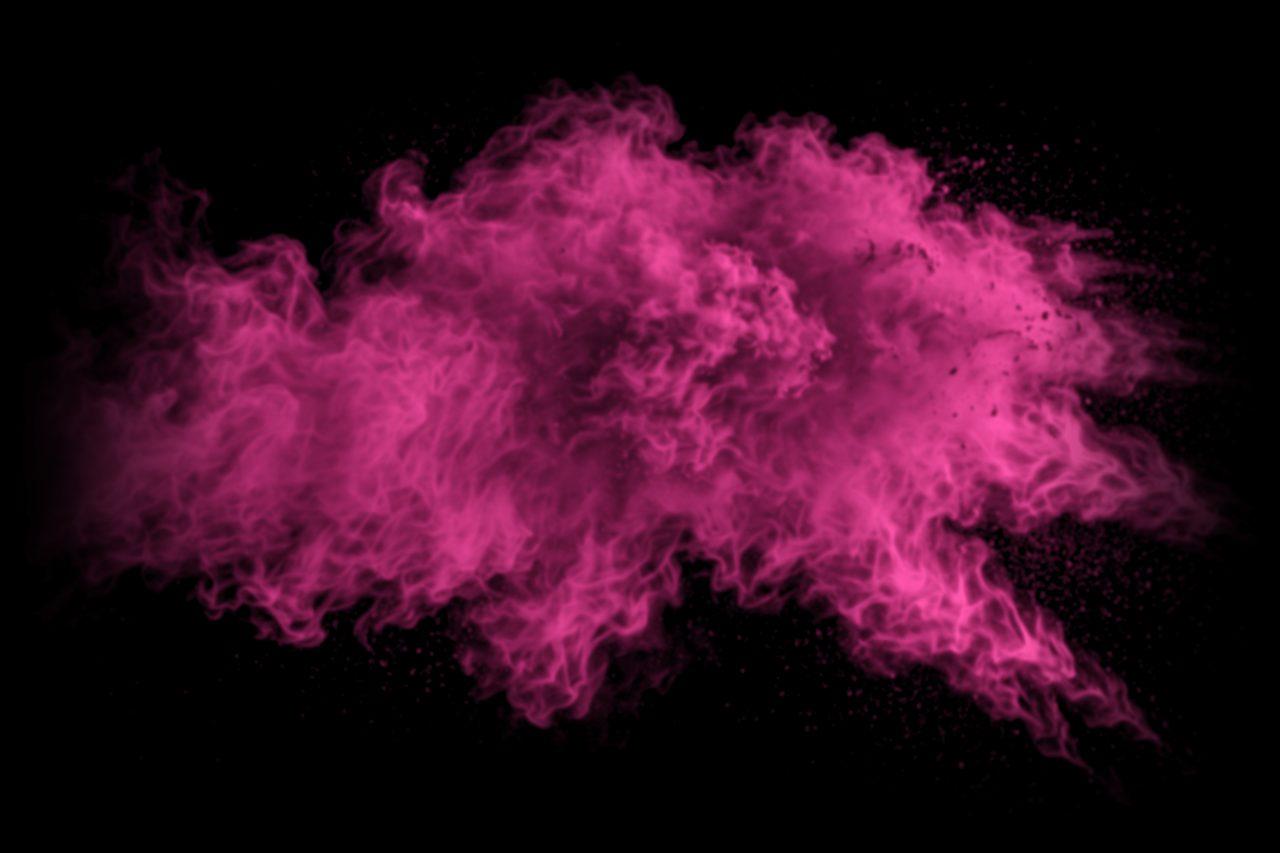
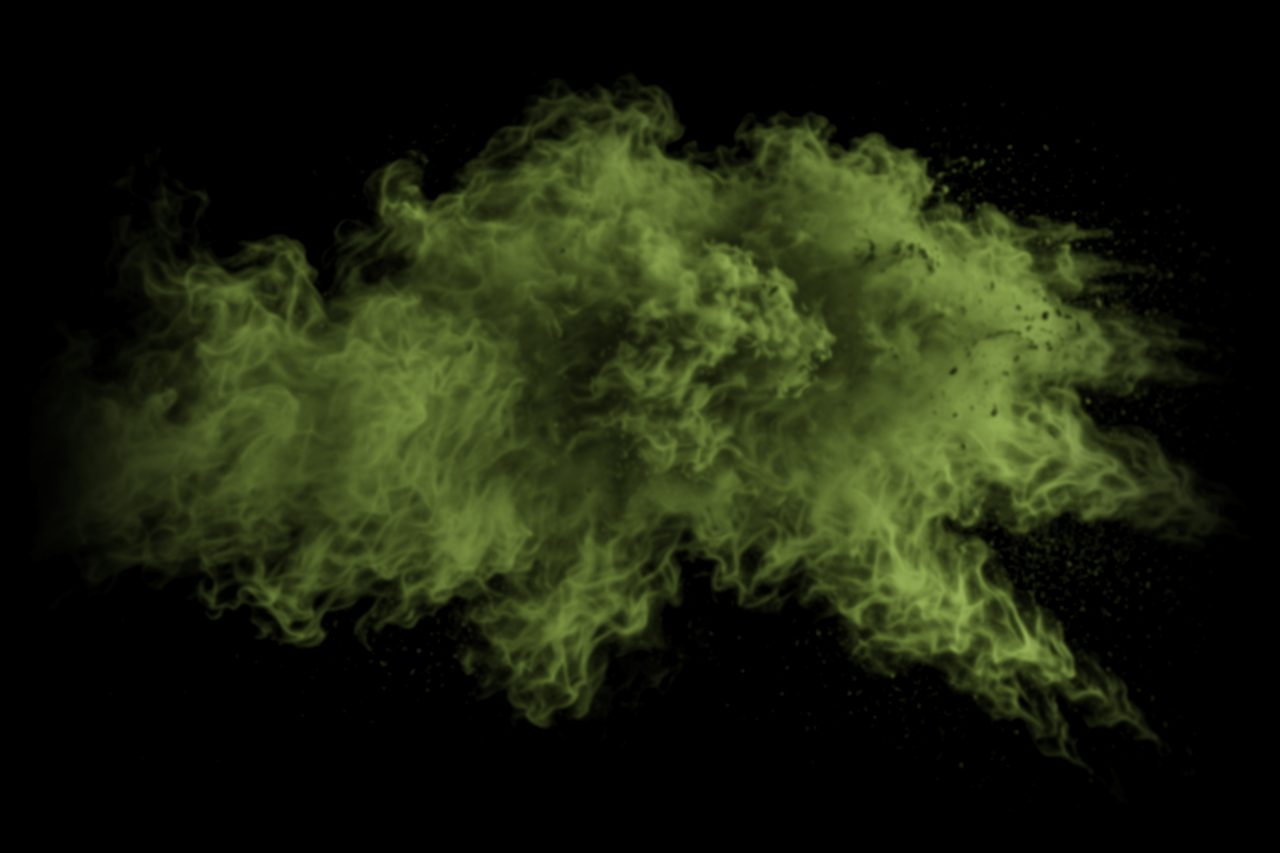
Theme: chalk in both brand colours, a little lighter: hot pink on the sides, lime in the top-left and bottom-right

diff --git a/web/theme/tokens.css b/web/theme/tokens.css
@@ -47,7 +47,7 @@
   /* depth (brand design 2026-11-01): lime is the only pop colour; pink lives in the back layer as smoke and halftone
      dots, and every grey card carries a faint halftone dot field that fades into its grey, so no surface is flat */
   --color-pink: var(--palette-pink);
-  --color-pink-smoke: rgb(255 45 149 / 34%);
+  --color-pink-smoke: rgb(255 45 149 / 26%);
   --color-pink-smoke-soft: rgb(255 45 149 / 11%);
   --color-pink-dot: rgb(255 45 149 / 60%);
   --color-lime-dot: rgb(198 243 90 / 45%);
@@ -71,12 +71,12 @@
      out) over soft pink smoke, under the halftone fields drawn by base.css; img/ is beside this file */
   --powder-a: url("img/powder-a.jpg");
   --powder-b: url("img/powder-b.jpg");
-  --powder-c: url("img/powder-c.jpg");
-  --backdrop: var(--powder-a) right -14vw top 2vh / min(82vw, 1250px) auto no-repeat,
-              var(--powder-b) left -16vw top 30vh / min(78vw, 1200px) auto no-repeat,
-              var(--powder-c) right -12vw bottom -12vh / min(64vw, 980px) auto no-repeat,
-              var(--powder-c) left -18vw top -14vh / min(56vw, 860px) auto no-repeat,
-              var(--powder-a) left -20vw bottom -18vh / min(58vw, 900px) auto no-repeat,
+  --powder-c: url("img/powder-c.jpg");   /* lime */
+  --powder-d: url("img/powder-d.jpg");   /* lime */
+  --backdrop: var(--powder-a) right -16vw top 6vh / min(72vw, 1100px) auto no-repeat,
+              var(--powder-b) left -18vw top 32vh / min(70vw, 1080px) auto no-repeat,
+              var(--powder-c) left -16vw top -16vh / min(46vw, 720px) auto no-repeat,
+              var(--powder-d) right -14vw bottom -16vh / min(46vw, 720px) auto no-repeat,
               radial-gradient(ellipse 38% 60% at 100% 40%, var(--color-pink-smoke) 0%, transparent 75%),
               radial-gradient(ellipse 38% 60% at 0% 60%, var(--color-pink-smoke) 0%, transparent 75%),
               var(--color-bg);
